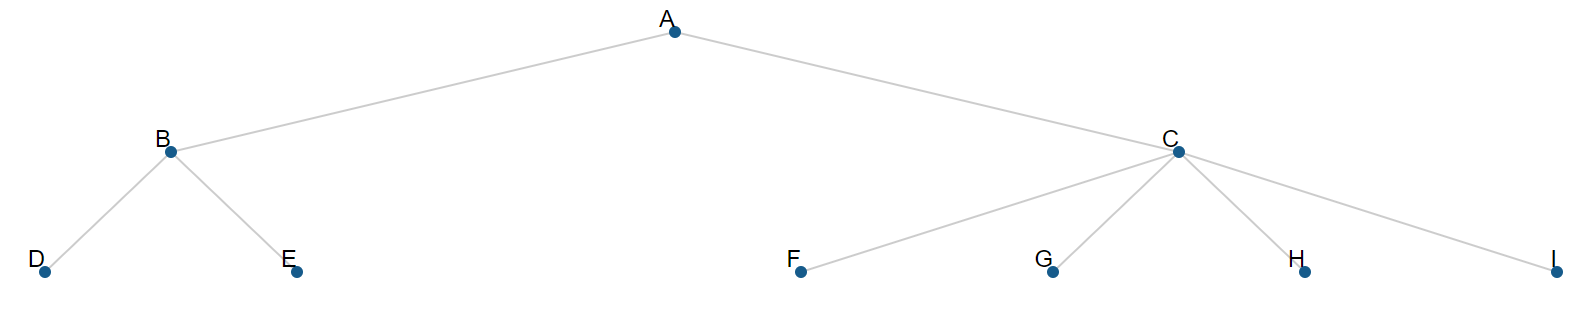
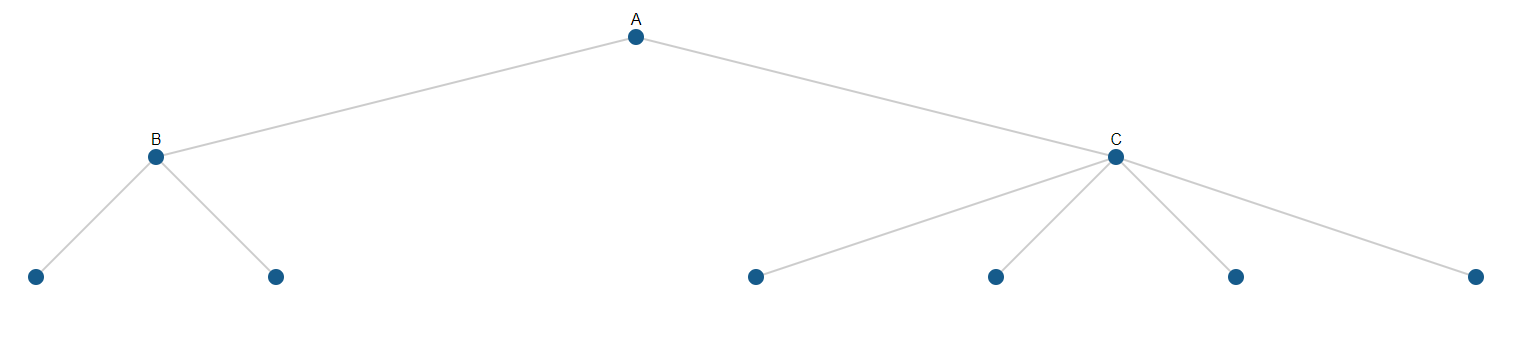
CCS fixes + text update

diff --git a/js/functions.js b/js/functions.js
@@ -7,7 +7,7 @@ const iframeArray = ["S1L", "A1L", "D1L", "S1S", "A1S", "D1S",
 
 const inputArray = ["likert", "yesNo", "textfield"];
 
-const pageArray = ["survey", "survey2", "survey3", "theory", "CMV"];
+const pageArray = ["survey", "survey2", "survey3", "theory", "CMV", "demographics"];
 
 const radios = ["query", "yesNo"];
 
@@ -531,8 +531,8 @@ function getQuestions() {
     }
     console.log("ArrayTeq: ", arrayTeq);
  
-    addQuestions(arrayVis, arrayTeq, visQ1);
-    addQuestions(arrayVis, arrayTeq, visQ2);
+    //addQuestions(arrayVis, arrayTeq, visQ1);
+    //addQuestions(arrayVis, arrayTeq, visQ2);
 
     for (let i = 0; i < endingQ.length; i++){
         allStatements.push(endingQ[i]);
@@ -812,9 +812,11 @@ function saveUserAnswers(recordTimeBtn, facit, s) {
         document.getElementById("statement2").innerHTML = allStatements[testPosition].q;
         document.getElementById("statement3").innerHTML = allStatements[testPosition].q2;
         document.getElementById("survey").style.display = "none";
+        document.getElementById("demographics").style.display = "inline-block";
 
     } else {
         document.getElementById("survey2").style.display = "none";
+        document.getElementById("demographics").style.display = "none";
     }
 
 

diff --git a/css/style2.css b/css/style2.css
@@ -34,6 +34,12 @@ body {
   margin-top: 0px;
 }
 
+#demographics{
+	font-size: 1.0em;
+  margin-top: 0px;
+  margin-bottom: 0px;
+}
+
 h1 {
 	font-weight: medium;
 	font-size: 1.2em;
@@ -65,7 +71,7 @@ h2 {
 }
 
 textarea {
-	width: 450px;
+	width: 700px;
 	height: 150px;
 }
 
@@ -142,13 +148,13 @@ iframe {
 
 /* Theory page */
 /* Create three equal columns that floats next to each other */
+
 .column {
   float: left;
   width: 30%;
   padding: 5px;
   height: 300px;
   border: 2px solid #ffffff;
-  border-radius: 5px;
   background-color: #e8ecf0;
 }
 
@@ -165,11 +171,11 @@ iframe {
 }
 
 #img1:hover{
-  margin-left: 50%;
+  margin-left: 60%;
 }
 
 #img3:hover{
-  margin-left: -50%;
+  margin-left: -10%;
 }
 
 /* Clear floats */
@@ -189,6 +195,4 @@ iframe {
   box-shadow: 0 3px 7px 0 rgba(0, 0, 0, 0.2), 0 3px 15px 0 rgba(0, 0, 0, 0.2);
 }
 
-#CMV{
-  padding: 2%;
-}
+

diff --git a/js/CMV/CMV1_A.js b/js/CMV/CMV1_A.js
@@ -73,14 +73,14 @@ function update(source) {
     .attr("class", "node")
     .attr("id", function (d) { return "node" + d.id })//TEST
     .attr("fill","#045a8d")
-    .attr("r", 6);//radius
+    .attr("r", 8);//radius
 
   // Labels for nodes
   nodeEnter
     .append("text")
     .attr("dy", ".35em")
-    .attr("y", -13)
-    .attr("text-anchor", "end")
+    .attr("y", -18)
+    .attr("text-anchor", "middle")
     .style("font", "16px sans-serif")
     .text(function (d) {
       if (d.parent == null) {

diff --git a/js/CMV/CMV1_D.js b/js/CMV/CMV1_D.js
@@ -73,14 +73,14 @@ function update(source) {
     .attr("class", "node")
     .attr("id", function (d) { return "node" + d.id })//TEST
     .attr("fill","#045a8d")
-    .attr("r", 6);//radius
+    .attr("r", 8);//radius
 
   // Labels for nodes
   nodeEnter
     .append("text")
     .attr("dy", ".35em")
-    .attr("y", -13)
-    .attr("text-anchor", "end")
+    .attr("y", -18)
+    .attr("text-anchor", "middle")
     .style("font", "16px sans-serif")
     .text(function (d) {
       if (d.parent == null) {

diff --git a/js/CMV/CMV1_S.js b/js/CMV/CMV1_S.js
@@ -73,14 +73,14 @@ function update(source) {
     .attr("class", "node")
     .attr("id", function (d) { return "node" + d.id })//TEST
     .attr("fill","#045a8d")
-    .attr("r", 6);//radius
+    .attr("r", 8);//radius
 
   // Labels for nodes
   nodeEnter
     .append("text")
     .attr("dy", ".35em")
-    .attr("y", -13)
-    .attr("text-anchor", "end")
+    .attr("y", -18)
+    .attr("text-anchor", "middle")
     .style("font", "16px sans-serif")
     .text(function (d) {
       if (d.parent == null) {

diff --git a/js/nodelink/tree4.js b/js/nodelink/tree4.js
@@ -86,14 +86,14 @@ function update(source) {
         return "#045a8d";
       }
     })
-    .attr("r", 6);//radius
+    .attr("r", 8);//radius
 
   // Labels for nodes
   nodeEnter
     .append("text")
     .attr("dy", ".35em")
-    .attr("y", -13)
-    .attr("text-anchor", "end")
+    .attr("y", -18)
+    .attr("text-anchor", "middle")
     .style("font", "16px sans-serif")
     .text(function (d) {
       if (d.parent == null) {

diff --git a/js/nodelink/tree5.js b/js/nodelink/tree5.js
@@ -86,14 +86,14 @@ function update(source) {
         return "#045a8d";
       }
     })
-    .attr("r", 6);//radius
+    .attr("r", 8);//radius
 
   // Labels for nodes
   nodeEnter
     .append("text")
     .attr("dy", ".35em")
-    .attr("y", -13)
-    .attr("text-anchor", "end")
+    .attr("y", -18)
+    .attr("text-anchor", "middle")
     .style("font", "16px sans-serif")
     .text(function (d) {
       if (d.parent == null) {

diff --git a/js/nodelink/tree6.js b/js/nodelink/tree6.js
@@ -86,14 +86,14 @@ function update(source) {
         return "#045a8d";
       }
     })
-    .attr("r", 6);//radius
+    .attr("r", 8);//radius
 
   // Labels for nodes
   nodeEnter
     .append("text")
     .attr("dy", ".35em")
-    .attr("y", -13)
-    .attr("text-anchor", "end")
+    .attr("y", -18)
+    .attr("text-anchor", "middle")
     .style("font", "16px sans-serif")
     .text(function (d) {
       if (d.parent == null) {

diff --git a/index.php b/index.php
@@ -39,12 +39,12 @@
     Some tasks and questions require deeper answers. In the beginning, you will be asked to fill in some details which will be used to see if the results differ by demographics. This information will not include questions such as
     name or contact information to keep the answers anonymized when showing the results.<br><br>
     <span class="bolded">Interacting with the visualizations: </span> You are free to explore the visualizations and see what techniques are available.<br>
-    Once you interact with the diagram the pre-highlighted nodes disappear and will not come back.<br>
     You are also free to use the touchpad and the touch-scrren.<br><br>
     <span class="bolded">Submit answer: </span>You submit an answer to a question by clicking on the continue button and you are then taken to the next question.<br>
     It is <span class="bolded">not</span> possible to change an answer afterward.<br><br>
-    <span class="bolded">Language: </span>The test is conducted in English but you are allowed to ask questions in both Swedish and English relating if you do not understand the task/question to clarify the question.<br><br>
-    <span class="bolded">Stuck on a question: </span>The test leader will <span class="bolded">not help</span> you fulfill the tasks and questions by giving any answers or hints. Try your best to complete it.<br><br>
+    <span class="bolded">Language: </span> You can answer the questions in both Swedish and English.
+    <span class="bolded">Stuck on a question: </span>You are free to ask the conductor of the test if you do not understand the task/question and need it to be clarified.
+	However, the test leader <span class="bolded">will not help</span> help you fulfill the tasks and questions. Try your best to complete it.<br><br>
     <span class="bolded">Glossary: </span>children = one level down in hierarchy, parent = one level up in hierarchy, descendant = children and its children, ancestor = parents and its parents.
 	</div>
 	
@@ -52,57 +52,59 @@
 	<h1 class="margin">Brushing and Linking on Hierarchical data</h1><p><span class="margin" id='currentPage'></span><br>
     <div class="prePage" id="intro">
     <p>Hello,<br>
-    Thank you for taking your time and participating in this research study. The research study will investigate what techniques are most suitable for exploring the structure and details of hierarchical data. 
-    To be able to examine it you will encounter hierarchical data sets of varying size and content visualized in different ways.<br><br>
-    The visualizations will also have different interaction functionality with the aim of allowing the user to explore and discover different parts and angles of the data.
-    You will be asked to perform tasks and answer questions regarding the data and the visualizations. Some tasks and questions require deeper answers. The question will be stated and the visualization will be shown below.<br><br>
-    In the beginning, some nodes in the visualization are pre-highlighted in yellow. Once you interact with the visualization the yellow highlight disappears and will not come back.
-    You will encounter <span class="bolded">three</span> datasets and <span class="bolded">two</span> distinct differences in the size of the datasets.
+    In this test you will encounter <span class="bolded">three</span> datasets and <span class="bolded">two</span> distinct differences in the size of the datasets.
     <br><br>
     The device that the user test is performed on has a touch screen. You are free to use both the touchpad and the touch-screen to perform the test.
-    You submit an answer to a question by clicking on the continue button and you are then taken to the next question. It is <span class="bolded">not</span> possible to change an answer afterward.
+	It is <span class="bolded">not</span> possible to change an answer afterward.
     <br><br>
-    In the beginning, you will be asked to fill in some details which will be used to see if the results differ by demographics. This information will not include questions such as
-    name or contact information to keep the answers anonymized when showing the results.<br><br>
-    The test is conducted in English but you are allowed to ask questions in both Swedish and English relating if you do not understand the task/question to clarify the question.
-    However, the test leader <span class="bolded">will not help</span> help you fulfill the tasks and questions by giving any answers or hints.
+    You can answer the questions in both Swedish and English. You are free to ask the conductor of the test if you do not understand the task/question and need it to be clarified.
+    However, the test leader <span class="bolded">will not help</span> help you fulfill the tasks and questions.
     <br><br>
     Let's begin by clicking on the Continue button!</p>
     </div>
 
+	<div class="prePage" id="demographics">
+    <p>
+    The two questions below are necessary to see if the results differ by demographics. You will still be anonymous in the test.
+	</p>
+    </div>
+
 	<div class="prePage" id="theory">
 		<p><span class="bolded">Theory</span><br>
-		Before we start the evaluation we will introduce the theory about the three visualization graphs which will be evaluated with a dataset and with different interaction techniques.<br>
-		Read the theory, ask the test leader if anything is unclear.<br>
-		The following pages will show visualizations of hierarchical datasets. Every visualization will inlcude question(s) and/or task(s) where you are recommended to <span class="bolded">interact and play around</span>. Click on Continue to proceed.
-		</p>
+		In the test, three visualization graphs will be shown to represent hierarhical data.
+		The following pages will shows the visualizations. Every visualization will inlcude question(s) and/or task(s).<br>
+		<span class="bolded">Interact and play around</span> in the coming visualizations.
+		You can enlarge the images by clicking on them.<br><br>
+		The most classic way to present hierarchical data is to visualize individual data items as nodes. Edges are drawn between data items that have an ancestral-descendant relationship in so-called Node-Link diagrams.
 		<div class="row">
 			<div class="column">
+				<h2>Node-Link diagram</h2>
+				<img class="img" id="img1" src="./images/nodelink.PNG" style="width:80%">
+			</div>
+			<div class="column">
 				<h2>Icicle Plot</h2>
-				<img class="img" id="img1" src="./images/icicle.PNG" style="width:60%">			
+				<img class="img" src="./images/icicle.PNG" style="width:60%">			
 			</div>
 			<div class="column">
 				<h2>Treemap</h2>
-				<img class="img" src="./images/treemap.PNG" style="width:70%">
+				<img class="img" id="img3" src="./images/treemap.PNG" style="width:70%">
 			</div>
-			<div class="column">
-				<h2>Node-Link diagram</h2>
-				<img class="img" id="img3" src="./images/nodelink.PNG" style="width:80%">
+			<div class="column" id="shorter">
+			<p>	It is read from the top-to-bottom. The ancestor to all the other nodes lays in the shallowest hierarchy level at the top of the graph. Further down the graph the descendants are placed.<br><br>
+			All nodes that are aligned on the same height belong to the same level in the hierarchy.
+			</p>
 			</div>
 			<div class="column"id="shorter">
-				<p>Icicle Plots are often read from left-to-right or from top-to-bottom.
-				This graph is read from the top-to-bottom.<br><br>
-				The vertical and horizontal lines are used to section up the data.
-				Each row is representing one level in the hierarchy from the dataset. Each column in an row is an individual node.	</p>
+			<p> It's also read from the top-to.bottom.
+				The vertical and horizontal lines are used to section up the data.<br><br>
+				Each row is representing one level in the hierarchy from the dataset. Each column within a row is an individual node.
+			</p>
 			</div>
 			<div class="column" id="shorter">
-				<p>The descendant nodes are placed in and on top of the ancestor node, so-called nestled treemap.<br><br>
+			<p>The descendant nodes are placed in and on top of the ancestor node, so-called nestled treemap.<br><br>
 				Vertical and horizontal lines are used to section up the data and distinguish the individual nodes in the layers.
-				The deepest nodes are on top.</p>
-			</div>
-			<div class="column" id="shorter">
-				<p>This node-link diagram is read from the top-to-bottom. Each circle is a node. The lines between two nodes indicates that they have a ancestral-descendant relationship.<br><br>
-				The shallowest levels in the hierarchy are in the top and the further down the graph they are placed, the deeper level a node belongs to. All nodes that are are aligend on the same height belongs to the same level in the hierarchy.	</p>
+				The deepest nodes are on top.
+			</p>
 			</div>
 		</div>
 	</div>
@@ -114,7 +116,7 @@
 
 
 	<div>
-		<form class="margin" id="survey" method="post" name="surveyForm"><br>
+		<form class="margin" id="survey" method="post" name="surveyForm">
 			<p><span id='statement'></span><span id='node1'></span><span id="text"></span><span id='node2'></span><br>
 				<span id='yesNo'>Yes
 					<input type='radio' name='yesNo' id='yes' value='Y' class='form-radio' onclick='changeQuestionnaireSubmitButton()'>
@@ -134,7 +136,7 @@
 				<!--<textarea name="howmany" id="howmany" onkeyup="checkNumber(this)" placeholder="Enter a number please."></textarea>-->
             </p>
 		</form>
-		<form class="margin" id="survey2" method="post" name="surveyForm"><br>
+		<form class="margin" id="survey2" method="post" name="surveyForm">
 			<p><span id='statement2'></span><br>
 				<span id='yesNo2'>Yes
 					<input type='radio' name='yesNo' id='yes' value='Y' class='form-radio' onclick='changeSubmitButtonColor("colorVision")'>
@@ -151,7 +153,7 @@
 				Very Good</span>
 			</p>
 		</form>
-		<form class="margin" id="survey3" method="post" name="surveyForm"><br>
+		<form class="margin" id="survey3" method="post" name="surveyForm">
 			<p><span id='statementFirst'></span><br></p>	
 			<p><span id='statementA'></span><br>
 				<textarea name="textfield" id="textfieldA" onkeyup="changeQuestionnaireSubmitButton()" placeholder="Please answer in English or Swedish."></textarea>
